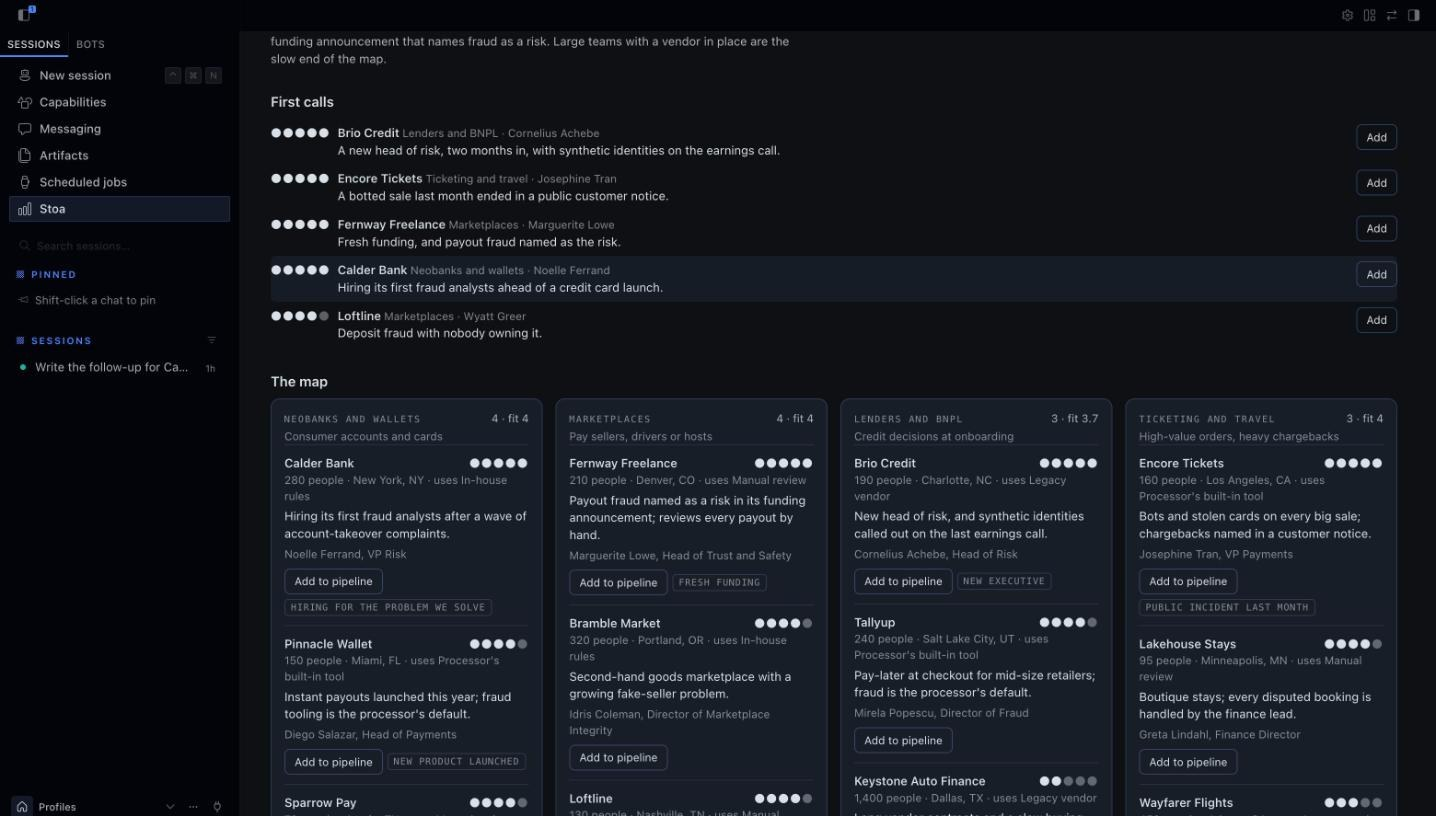
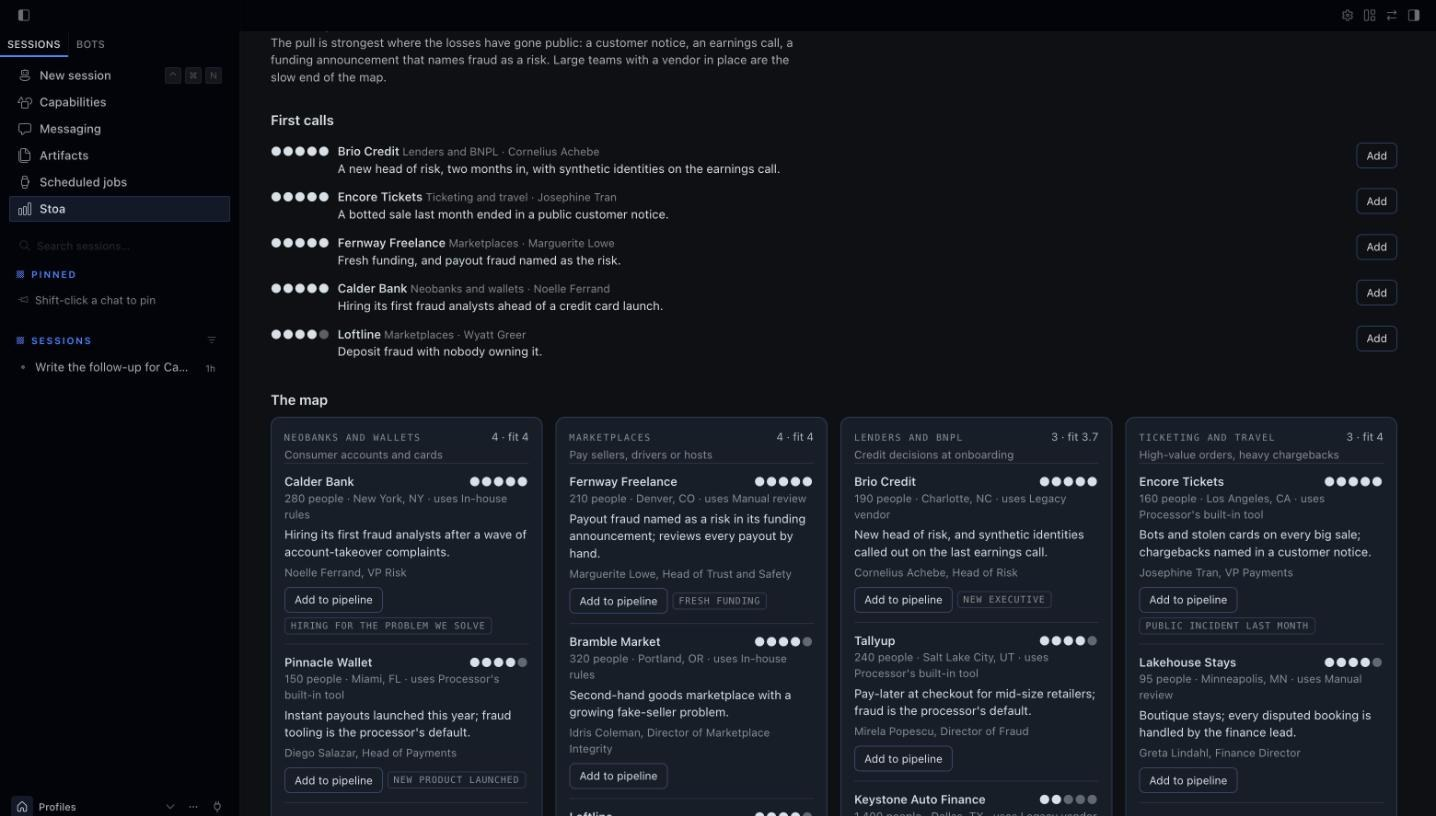
Stoa 0.6.4: a white-to-grey-to-olive palette in place of the blue-to-orange line, clearer tabs, and Webapp polish

diff --git a/desktop/plugin.js b/desktop/plugin.js
@@ -120,7 +120,9 @@ async function track(target, sessionId) {
 
 // -- look: the app's own variables only, so every theme carries it -------------------------------
 const CSS = `
-.stoa { font-size: 13px; line-height: 1.45; color: var(--ui-text-primary); }
+/* Colour: the theme's own text and strokes, and one accent. Olive is fixed; the rest follows the theme. */
+.stoa { font-size: 13px; line-height: 1.45; color: var(--ui-text-primary); --stoa-olive-fill: #7f8c50;
+  --stoa-olive: color-mix(in oklab, #7f8c50 74%, var(--ui-text-primary)); }
 .stoa *, .stoa *::before { box-sizing: border-box; }
 .stoa-pane { display: flex; flex-direction: column; height: 100%; min-height: 0; }
 .stoa-scroll { flex: 1; min-height: 0; overflow-y: auto; padding: 14px 12px 18px; }
@@ -130,7 +132,7 @@ const CSS = `
 .stoa-figure { font-size: 30px; font-weight: 600; letter-spacing: -.02em; line-height: 1.1; font-variant-numeric: tabular-nums; margin-top: 4px; }
 .stoa-figure small { font-size: 12px; font-weight: 400; letter-spacing: 0; color: var(--ui-text-tertiary); margin-left: 7px; }
 .stoa-page .stoa-figure { font-size: 44px; }
-.stoa-rule { height: 2px; border-radius: 2px; margin: 12px 0 4px; opacity: .85; background: linear-gradient(90deg, var(--ui-blue), var(--ui-purple), var(--ui-red), var(--ui-yellow)); }
+.stoa-rule { height: 2px; border-radius: 2px; margin: 12px 0 4px; background: linear-gradient(90deg, var(--ui-text-primary), var(--ui-text-tertiary) 46%, var(--stoa-olive-fill)); }
 .stoa-sub { color: var(--ui-text-tertiary); font-size: 12px; }
 .stoa-clip { overflow: hidden; text-overflow: ellipsis; white-space: nowrap; }
 .stoa-sec { margin-top: 16px; }
@@ -140,7 +142,7 @@ const CSS = `
 .stoa-dot { flex: none; width: 6px; height: 6px; margin-top: 6px; border-radius: 50%; background: var(--ui-text-quaternary); }
 .stoa-dot[data-tone="bad"] { background: var(--ui-red); }
 .stoa-dot[data-tone="warn"] { background: var(--ui-orange); }
-.stoa-dot[data-tone="good"] { background: var(--ui-green); }
+.stoa-dot[data-tone="good"] { background: var(--stoa-olive-fill); }
 .stoa-grow { flex: 1; min-width: 0; }
 .stoa-name { font-weight: 550; }
 .stoa-num { flex: none; font-size: 12px; font-variant-numeric: tabular-nums; color: var(--ui-text-secondary); white-space: nowrap; }
@@ -159,28 +161,39 @@ const CSS = `
 .stoa-log p { margin: 0 0 5px; font-size: 12px; color: var(--ui-text-secondary); }
 .stoa-btns { display: flex; flex-wrap: wrap; gap: 6px; margin-top: 12px; }
 .stoa-btn, .stoa-select { height: 28px; padding: 0 10px; border: 1px solid var(--ui-stroke-primary); border-radius: 6px; background: transparent; color: var(--ui-text-primary); font: inherit; font-size: 12px; cursor: pointer; }
+.stoa-btn, .stoa-select { transition: background .15s ease, opacity .15s ease; }
 .stoa-btn:hover, .stoa-select:hover { background: var(--ui-control-hover-background); }
+.stoa-btn[data-kind="primary"]:hover { background: var(--ui-text-primary); opacity: .88; }
 .stoa-btn[data-kind="primary"] { border-color: var(--ui-text-primary); background: var(--ui-text-primary); color: var(--ui-bg-editor); font-weight: 550; }
 .stoa-btn[data-kind="quiet"] { border-color: transparent; color: var(--ui-text-secondary); }
 .stoa-btn:disabled, .stoa-select:disabled { opacity: .5; cursor: default; }
 .stoa-chip { display: inline-block; padding: 1px 6px; border: 1px solid var(--ui-stroke-secondary); border-radius: 4px; font-family: ui-monospace, "SF Mono", Menlo, monospace; font-size: 10px; letter-spacing: .08em; text-transform: uppercase; color: var(--ui-text-tertiary); white-space: nowrap; }
 .stoa-chip[data-tone="bad"] { color: var(--ui-red); border-color: var(--ui-red); }
 .stoa-chip[data-tone="warn"] { color: var(--ui-orange); border-color: var(--ui-orange); }
-.stoa-chip[data-tone="good"] { color: var(--ui-green); border-color: var(--ui-green); }
+.stoa-chip[data-tone="good"] { color: var(--stoa-olive); border-color: var(--stoa-olive); }
 .stoa-chips { display: flex; flex-wrap: wrap; gap: 5px; margin-top: 7px; }
 .stoa-foot { display: flex; flex-wrap: wrap; gap: 6px; padding: 10px 12px; border-top: 1px solid var(--ui-stroke-tertiary); }
 .stoa-stats { display: grid; grid-template-columns: repeat(auto-fit, minmax(120px, 1fr)); margin: 22px 0 6px; border-top: 1px solid var(--ui-stroke-secondary); border-bottom: 1px solid var(--ui-stroke-secondary); }
 .stoa-stats > div { padding: 12px 14px 12px 0; }
 .stoa-stats b { display: block; font-size: 22px; font-weight: 600; font-variant-numeric: tabular-nums; margin-top: 2px; }
-.stoa-tabs { display: flex; gap: 4px; margin: 20px 0 16px; }
-.stoa-tab { height: 30px; padding: 0 12px; border: 0; border-radius: 6px; background: transparent; color: var(--ui-text-secondary); font: inherit; cursor: pointer; }
-.stoa-tab[data-on="1"] { background: var(--ui-row-active-background, var(--ui-row-hover-background)); color: var(--ui-text-primary); font-weight: 550; }
+.stoa-tabs { display: inline-flex; gap: 2px; margin: 22px 0 18px; padding: 3px; border: 1px solid var(--ui-stroke-secondary); border-radius: 10px; background: var(--ui-bg-card); }
+.stoa-tab { display: inline-flex; align-items: center; gap: 8px; height: 32px; padding: 0 15px; border: 0; border-radius: 7px; background: transparent; color: var(--ui-text-secondary); font: inherit; font-size: 13px; cursor: pointer; outline: none; transition: background .15s ease, color .15s ease; }
+.stoa-tab:hover { color: var(--ui-text-primary); background: var(--ui-control-hover-background); }
+.stoa-tab[data-on="1"], .stoa-tab[data-on="1"]:hover { background: var(--ui-text-primary); color: var(--ui-bg-editor); font-weight: 600; }
+.stoa-tab small { font-family: ui-monospace, "SF Mono", Menlo, monospace; font-size: 10px; opacity: .6; }
+.stoa button:focus-visible, .stoa select:focus-visible, .stoa input:focus-visible { outline: 2px solid var(--stoa-olive); outline-offset: 2px; }
 .stoa-split { display: grid; grid-template-columns: minmax(0, 1fr); gap: 20px; align-items: start; }
 .stoa-split[data-side="1"] { grid-template-columns: minmax(0, 1fr) 360px; }
+.stoa-split > .stoa-box { position: sticky; top: 0; max-height: calc(100vh - 120px); overflow-y: auto; }
 .stoa-board { display: grid; grid-auto-flow: column; grid-auto-columns: minmax(176px, 1fr); gap: 12px; overflow-x: auto; padding-bottom: 8px; }
 .stoa-colhead { display: flex; justify-content: space-between; align-items: baseline; gap: 8px; padding: 0 2px 8px; }
 .stoa-card { display: block; width: 100%; margin-bottom: 8px; padding: 10px 12px; border: 1px solid var(--ui-stroke-secondary); border-radius: 8px; background: var(--ui-bg-card); color: inherit; font: inherit; text-align: left; cursor: pointer; }
+.stoa-card { transition: border-color .15s ease, transform .15s ease; }
 .stoa-card:hover, .stoa-card[data-open="1"] { border-color: var(--ui-stroke-primary); }
+.stoa-card:hover { transform: translateY(-1px); }
+.stoa-card[data-open="1"] { box-shadow: inset 2px 0 0 var(--stoa-olive-fill); }
+.stoa-cardfoot { display: flex; justify-content: space-between; gap: 8px; align-items: baseline; margin-top: 6px; font-size: 12px; }
+.stoa-cardfoot em { flex: none; font-style: normal; font-size: 11px; color: var(--ui-text-tertiary); }
 .stoa-card h5 { display: flex; justify-content: space-between; gap: 8px; margin: 0; font-size: 13px; font-weight: 550; }
 .stoa-empty { padding: 10px 2px; color: var(--ui-text-quaternary); }
 .stoa-cols { display: grid; grid-template-columns: repeat(auto-fit, minmax(240px, 1fr)); gap: 14px; }
@@ -197,11 +210,12 @@ const CSS = `
 .stoa-filters .stoa-input { flex: 1 1 120px; min-width: 0; height: 28px; padding: 0 9px; border: 1px solid var(--ui-stroke-secondary); border-radius: 6px; background: transparent; color: var(--ui-text-primary); font: inherit; font-size: 12px; outline: none; }\n.stoa-filters .stoa-input:focus { border-color: var(--ui-stroke-primary); }\n.stoa-filters .stoa-input::placeholder { color: var(--ui-text-quaternary); }
 .stoa-filters .stoa-select { max-width: 150px; }
 .stoa-toggle { height: 28px; padding: 0 9px; border: 1px solid var(--ui-stroke-secondary); border-radius: 6px; background: transparent; color: var(--ui-text-secondary); font: inherit; font-size: 12px; cursor: pointer; }
-.stoa-toggle[data-on="1"] { border-color: var(--ui-text-primary); color: var(--ui-text-primary); background: var(--ui-row-hover-background); }
+.stoa-toggle[data-on="1"] { border-color: var(--stoa-olive); color: var(--ui-text-primary); background: color-mix(in srgb, var(--stoa-olive-fill) 20%, transparent); }
 .stoa-funnel { margin: 0 0 20px; padding: 16px 18px 12px; border: 1px solid var(--ui-stroke-secondary); border-radius: 10px; background: var(--ui-bg-card); }
 .stoa-funnel svg { display: block; width: 100%; height: auto; overflow: visible; }
 .stoa-funnel text { font-family: ui-monospace, "SF Mono", Menlo, monospace; }
-.stoa-fn-block { fill: var(--ui-text-primary); opacity: .82; }
+.stoa-fn-block { fill: var(--ui-text-primary); opacity: .58; }
+.stoa-fn-won { fill: var(--stoa-olive-fill); }
 .stoa-fn-link { fill: var(--ui-text-primary); opacity: .13; }
 .stoa-fn-label { font-size: 9.5px; letter-spacing: .12em; fill: var(--ui-text-tertiary); }
 .stoa-fn-num { font-size: 15px; font-weight: 600; fill: var(--ui-text-primary); font-family: inherit !important; }
@@ -212,7 +226,7 @@ const CSS = `
 .stoa-list { max-height: 340px; overflow-y: auto; margin-top: 10px; }
 .stoa-pick { display: flex; gap: 9px; align-items: flex-start; padding: 7px 0; border-top: 1px solid var(--ui-stroke-tertiary); cursor: pointer; }
 .stoa-pick:first-child { border-top: 0; }
-.stoa-pick input { flex: none; margin-top: 3px; accent-color: var(--ui-accent); }
+.stoa-pick input { flex: none; margin-top: 3px; accent-color: var(--stoa-olive-fill); }
 .stoa-pick[data-off="1"] .stoa-grow { opacity: .5; }
 .stoa-rest { margin-top: 10px; font-size: 12px; color: var(--ui-text-tertiary); }
 .stoa-rest summary { cursor: pointer; }
@@ -368,8 +382,7 @@ function Funnel({ state }) {
   const parts = []
   steps.forEach((step, index) => {
     const x = index * col, tallness = height(step), next = steps[index + 1]
-    parts.push(h('rect', { key: 'b' + index, className: 'stoa-fn-block', x, y: mid - tallness / 2, width: block, height: tallness, rx: 2,
-      style: step.won ? { fill: 'url(#stoa-fn-won)', opacity: 1 } : undefined }))
+    parts.push(h('rect', { key: 'b' + index, className: step.won ? 'stoa-fn-won' : 'stoa-fn-block', x, y: mid - tallness / 2, width: block, height: tallness, rx: 2 }))
     if (next) {
       const after = height(next), right = (index + 1) * col
       parts.push(h('polygon', { key: 'l' + index, className: 'stoa-fn-link',
@@ -385,9 +398,6 @@ function Funnel({ state }) {
   })
   return h('div', { className: 'stoa-funnel' },
     h('svg', { viewBox: '0 0 ' + W + ' ' + H, role: 'img', 'aria-label': 'How many records reach each stage, and what share moves on' },
-      h('defs', null, h('linearGradient', { id: 'stoa-fn-won', x1: '0', y1: '0', x2: '1', y2: '0' },
-        h('stop', { offset: '0', style: { stopColor: 'var(--ui-blue)' } }), h('stop', { offset: '0.4', style: { stopColor: 'var(--ui-purple)' } }),
-        h('stop', { offset: '0.75', style: { stopColor: 'var(--ui-red)' } }), h('stop', { offset: '1', style: { stopColor: 'var(--ui-yellow)' } }))),
       parts),
     h('div', { className: 'stoa-funnel-foot' },
       h('span', null, h('b', null, closed ? Math.round((100 * flow.won) / closed) + '%' : '–'), ' win rate' + (closed ? ' (' + flow.won + ' of ' + closed + ' closed)' : '')),
@@ -480,7 +490,9 @@ function Board({ state, openId, setOpenId }) {
       column.here.length ? column.here.map(deal => h('button', { type: 'button', key: deal.id, className: 'stoa-card', 'data-open': openId === deal.id ? '1' : '0',
         onClick: () => setOpenId(openId === deal.id ? '' : deal.id) },
         h('h5', null, h('span', { className: 'stoa-clip' }, deal.name), deal.value ? h('span', { className: 'stoa-num' }, money(deal.value, pb.currency)) : null),
-        h('div', { className: 'stoa-sub stoa-clip' }, [deal.company, deal.group && deal.group !== deal.company ? deal.group : ''].filter(Boolean).join(' · ') || ' '),
+        h('div', { className: 'stoa-cardfoot', style: { marginTop: 0 } },
+          h('span', { className: 'stoa-sub stoa-clip' }, [deal.company, deal.group && deal.group !== deal.company ? deal.group : ''].filter(Boolean).join(' · ') || ' '),
+          deal.owner ? h('em', null, deal.owner) : null),
         deal.next_step && !column.won ? h('div', { className: 'stoa-clip', style: { marginTop: 6, fontSize: 12 } }, deal.next_step) : null,
         deal.due || deal.stale || deal.pending || column.other ? h('div', { className: 'stoa-chips' },
           column.other ? h(Chip, null, deal.stage_label) : null,
@@ -557,8 +569,9 @@ function Page() {
     (state.intakes || []).length ? h('div', { style: { marginTop: 18, maxWidth: 720 } },
       h('div', { className: 'stoa-eyebrow', style: { marginBottom: 6 } }, 'Waiting for your review'),
       state.intakes.map(item => h('div', { key: item.id, style: { marginBottom: 10 } }, h(Review, { id: item.id })))) : null,
-    h('div', { className: 'stoa-tabs' }, [['pipeline', 'Pipeline'], ['market', 'Market map'], ['activity', 'Activity']].map(pair =>
-      h('button', { type: 'button', key: pair[0], className: 'stoa-tab', 'data-on': tab === pair[0] ? '1' : '0', onClick: () => setTab(pair[0]) }, pair[1]))),
+    h('div', null, h('div', { className: 'stoa-tabs', role: 'tablist' }, [['pipeline', 'Pipeline', totals.open], ['market', 'Market map', totals.mapped], ['activity', 'Activity', 0]].map(item =>
+      h('button', { type: 'button', key: item[0], role: 'tab', 'aria-selected': tab === item[0], className: 'stoa-tab', 'data-on': tab === item[0] ? '1' : '0',
+        onClick: () => setTab(item[0]) }, item[1], item[2] ? h('small', null, String(item[2])) : null)))),
     tab === 'pipeline' ? (state.deals.length
       ? h('div', null,
         h(Funnel, { state }),

diff --git a/dashboard/dist/style.css b/dashboard/dist/style.css
@@ -8,10 +8,14 @@
   --st-card: #f6f7f9;
   --st-raise: #ffffff;
   --st-wash: #e9ecf4;
-  --st-spectrum: linear-gradient(90deg, #2f56e8, #6a3fd6 38%, #d6413f 72%, #e6b93a);
+  /* One quiet line of colour: pale, to grey, to olive. */
+  --st-spec-a: #d9d8d0;
+  --st-spec-b: #8f8f87;
+  --st-spec-c: #667338;
+  --st-spectrum: linear-gradient(90deg, var(--st-spec-a), var(--st-spec-b) 46%, var(--st-spec-c));
   --st-warn: #a8690a;
   --st-bad: #b3372f;
-  --st-good: #2f6f4f;
+  --st-good: #5f6b38;
   --st-serif: "Didot", "Bodoni 72", "Playfair Display", "Hoefler Text", "Iowan Old Style", Georgia, serif;
   --st-sans: "Inter", ui-sans-serif, system-ui, -apple-system, "Segoe UI", sans-serif;
   --st-mono: ui-monospace, "SF Mono", "JetBrains Mono", Menlo, monospace;
@@ -36,9 +40,12 @@
   --st-card: #121316;
   --st-raise: #17181c;
   --st-wash: #1e2027;
+  --st-spec-a: #f1efe7;
+  --st-spec-b: #8f8f87;
+  --st-spec-c: #7f8c50;
   --st-warn: #d9a441;
   --st-bad: #e0766c;
-  --st-good: #7fbf9c;
+  --st-good: #a3ad74;
 }
 .stoa *, .stoa *::before, .stoa *::after { box-sizing: border-box; }
 
@@ -121,7 +128,7 @@
 .stoa-flow rect, .stoa-flow polygon { transition: height 0.6s ease, y 0.6s ease; }
 .stoa-fn-block { fill: var(--st-ink); opacity: 0.86; }
 .stoa-fn-link { fill: var(--st-ink); opacity: 0.13; }
-.stoa-fn-won { fill: url(#stoa-spec); }
+.stoa-fn-won { fill: var(--st-spec-c); }
 .stoa-fn-num { font-family: var(--st-serif, "Didot", "Bodoni 72", Georgia, serif) !important; font-size: 19px; fill: var(--st-ink); }
 .stoa-fn-pct { font-size: 11px; fill: var(--st-ink); }
 .stoa-flowfoot { display: flex; flex-wrap: wrap; gap: 4px 20px; margin: 4px 0 8px; font-size: 12px; color: var(--st-mute); }

diff --git a/dashboard/dist/index.js b/dashboard/dist/index.js
@@ -147,8 +147,8 @@
     return h("div", { className: "stoa-flowwrap" },
       h("svg", { className: "stoa-flow", viewBox: "0 0 " + W + " " + H, role: "img", "aria-label": "How many records reach each stage, and what share moves on" },
         h("defs", null, h("linearGradient", { id: "stoa-spec", x1: "0", y1: "0", x2: "1", y2: "0" },
-          h("stop", { offset: "0", stopColor: "#2f56e8" }), h("stop", { offset: "0.38", stopColor: "#6a3fd6" }),
-          h("stop", { offset: "0.72", stopColor: "#d6413f" }), h("stop", { offset: "1", stopColor: "#e6b93a" }))),
+          h("stop", { offset: "0", style: { stopColor: "var(--st-spec-a)" } }), h("stop", { offset: "0.46", style: { stopColor: "var(--st-spec-b)" } }),
+          h("stop", { offset: "1", style: { stopColor: "var(--st-spec-c)" } }))),
         parts),
       h("div", { className: "stoa-flowfoot" },
         h("span", null, h("b", null, closed ? Math.round(100 * f.won / closed) + "%" : "–"), " win rate" + (closed ? " (" + f.won + " of " + closed + " closed)" : "")),

diff --git a/page.py b/page.py
@@ -9,15 +9,15 @@ import math
 from html import escape as esc
 
 CSS = """
-:root { --bg:#ffffff; --ink:#1b1c20; --soft:#4b4e58; --mute:#8a8e9b; --line:#e5e7ec; --card:#f6f7f9; color-scheme: light; }
-@media (prefers-color-scheme: dark) { :root { --bg:#0a0b0d; --ink:#e8e6de; --soft:#b3b1aa; --mute:#7d7e80; --line:#24262a; --card:#121316; color-scheme: dark; } }
+:root { --bg:#ffffff; --ink:#1b1c20; --soft:#4b4e58; --mute:#8a8e9b; --line:#e5e7ec; --card:#f6f7f9; --pale:#d9d8d0; --olive:#667338; color-scheme: light; }
+@media (prefers-color-scheme: dark) { :root { --bg:#0a0b0d; --ink:#e8e6de; --soft:#b3b1aa; --mute:#7d7e80; --line:#24262a; --card:#121316; --pale:#f1efe7; --olive:#7f8c50; color-scheme: dark; } }
 * { box-sizing: border-box; } html, body { margin: 0; background: var(--bg); color: var(--ink); }
 body { font: 15px/1.5 Inter, ui-sans-serif, system-ui, -apple-system, "Segoe UI", sans-serif; max-width: 1060px; margin: 0 auto; padding: 44px 32px 80px; -webkit-font-smoothing: antialiased; }
 .mono, th, .eyebrow, .stat small, .bar em, .tag { font-family: ui-monospace, "SF Mono", Menlo, monospace; font-size: 11px; letter-spacing: .12em; text-transform: uppercase; color: var(--mute); font-style: normal; font-weight: 400; }
 h1 { font: 400 clamp(40px, 6vw, 72px)/.98 Didot, "Bodoni 72", "Playfair Display", Georgia, serif; letter-spacing: -.02em; margin: 18px 0 14px; }
 h2 { font-size: 13px; font-weight: 600; letter-spacing: -.005em; margin: 0 0 14px; padding-top: 14px; border-top: 1px solid var(--ink); }
 p { margin: 0 0 10px; color: var(--soft); max-width: 72ch; } a { color: inherit; text-underline-offset: 3px; text-decoration-color: var(--mute); }
-section { margin-top: 44px; } .rule { height: 2px; margin: 28px 0 0; border-radius: 2px; background: linear-gradient(90deg, #2f56e8, #6a3fd6 38%, #d6413f 72%, #e6b93a); }
+section { margin-top: 44px; } .rule { height: 2px; margin: 28px 0 0; border-radius: 2px; background: linear-gradient(90deg, var(--pale), #8f8f87 46%, var(--olive)); }
 .stats { display: grid; grid-template-columns: repeat(auto-fit, minmax(130px, 1fr)); gap: 0; border-top: 1px solid var(--line); margin-top: 26px; }
 .stat { padding: 16px 16px 4px 0; } .stat b { display: block; font: 400 40px/1 Didot, "Bodoni 72", Georgia, serif; font-variant-numeric: lining-nums; } .stat small { display: block; margin-top: 8px; color: var(--ink); }
 .two { display: grid; grid-template-columns: 1fr 1fr; gap: 40px; } @media (max-width: 760px) { .two { grid-template-columns: 1fr; } body { padding: 28px 18px 60px; } }

diff --git a/README.md b/README.md
@@ -113,8 +113,8 @@ already running when you installed Stoa, restart it once and the tab appears.
   company uses today. Open a company for its requirements checklist, buyers and source, then
   **Add to pipeline**. **Download page** saves the map as a web page.
 - **Activity:** everything that happened, from Slack clicks, the agent and the web alike.
-- **Paper and ink.** Neutral in light and dark, with one thin line of colour. A switch picks
-  the mode, whatever dashboard theme you run.
+- **Paper and ink.** Neutral in light and dark, with one quiet line that runs from white through
+  grey to olive. A switch picks the mode, whatever dashboard theme you run.
 
 ![The market map](docs/dashboard-market-map.jpg)
 
